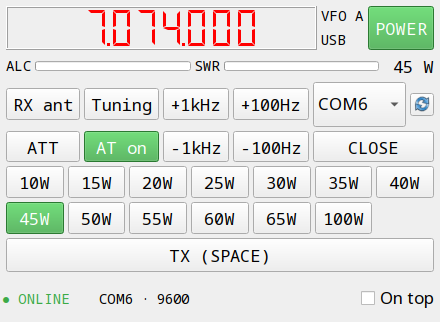
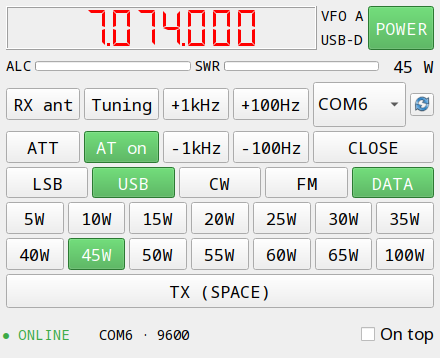
Add mode buttons, DATA toggle and 5 W power step
- LSB / USB / CW / FM buttons (MD), current mode highlighted from IF
- DATA mode on/off (DA), shown as USB-D; disabled and not polled in
  CW/FSK where the TRX answers DA with an error
- 5 W added to default power steps: two rows of 7 buttons
- GitHub Actions bumped to v7 (Node.js 20 deprecation)
- ReadMe and screenshot updated

diff --git a/src/kenwood_control.py b/src/kenwood_control.py
@@ -9,7 +9,7 @@ from PyQt5.QtCore import QIODevice, QTimer, Qt, QEvent, QSettings, QSize
 from PyQt5.QtWidgets import QMessageBox
 
 # Опрос на приёме - всё состояние, на передаче - частота/TX и измерители
-POLL_COMMANDS_RX = ["IF", "PC", "AN", "RA", "PS", "FR", "AC"]
+POLL_COMMANDS_RX = ["IF", "PC", "AN", "RA", "PS", "FR", "AC", "DA"]
 POLL_COMMANDS_TX = ["IF", "RM"]
 POLL_INTERVAL_MS = 50
 # Состояние связи: ответ старше LINK_SLOW_S - "SLOW", старше LINK_LOST_S - "NO ANSWER"
@@ -21,11 +21,14 @@ LINK_LOST_S = 1.5
 FREQ_HOLD_S = 0.3
 
 # Минимальная длина ответа (без ';') для каждой команды
-MIN_ANSWER_LEN = {"IF": 30, "PC": 5, "AN": 5, "RA": 4, "PS": 3, "FR": 3, "AC": 5, "RM": 7}
+MIN_ANSWER_LEN = {"IF": 30, "PC": 5, "AN": 5, "RA": 4, "PS": 3, "FR": 3, "AC": 5, "RM": 7, "DA": 3}
 
 MODES = {"1": "LSB", "2": "USB", "3": "CW", "4": "FM", "5": "AM",
          "6": "FSK", "7": "CW-R", "9": "FSK-R"}
 VFOS = {"0": "VFO A", "1": "VFO B", "2": "MEM"}
+# Кнопки режимов (код команды MD) и режимы, в которых доступен DATA (LSB, USB, FM, AM)
+MODE_BUTTONS = {"1": "LSB", "2": "USB", "3": "CW", "4": "FM"}
+DATA_MODES = "1245"
 
 # Файл настроек лежит рядом с программой (или с exe)
 if getattr(sys, "frozen", False):
@@ -37,7 +40,7 @@ SETTINGS_FILE = str(APP_DIR / "kenwood_control.ini")
 VERSION = "1.1.0"
 
 DEFAULT_SETTINGS = {
-    "power/steps": [str(w) for w in (10, 15, 20, 25, 30, 35, 40, 45, 50, 55, 60, 65, 100)],
+    "power/steps": [str(w) for w in (5, 10, 15, 20, 25, 30, 35, 40, 45, 50, 55, 60, 65, 100)],
     "serial/port": "",
     "serial/baud": 9600,
     "serial/flow_control": True,    # false, если используется RS232 без RTS/CTS
@@ -94,6 +97,8 @@ class KenwoodControl(QtWidgets.QMainWindow):
         self.is_active_vfob = False
         self.is_tuner_on = False
         self.is_tx_on = False
+        self.is_data_on = False
+        self.mode = ""
         self.count = 0
         self.current_freq = ""
         self.freq_hold_until = 0
@@ -250,6 +255,18 @@ class KenwoodControl(QtWidgets.QMainWindow):
         grid.addWidget(self.openB, 1, 4)
         main.addLayout(grid)
 
+        # Режимы модуляции и DATA
+        modes = QtWidgets.QHBoxLayout()
+        modes.setSpacing(4)
+        self.mode_buttons = {}
+        for code, name in MODE_BUTTONS.items():
+            self.mode_buttons[code] = button(name)
+            modes.addWidget(self.mode_buttons[code])
+        self.dataB = button("DATA")
+        self.dataB.setToolTip("DATA mode (LSB, USB, FM, AM)")
+        modes.addWidget(self.dataB)
+        main.addLayout(modes)
+
         # Кнопки мощности (ступени задаются в kenwood_control.ini)
         power_grid = QtWidgets.QGridLayout()
         power_grid.setSpacing(4)
@@ -290,6 +307,9 @@ class KenwoodControl(QtWidgets.QMainWindow):
         self.tuner_onB.clicked.connect(self.tuner_on)
         self.tx_onB.clicked.connect(self.on_tx_button)
         self.on_topC.toggled.connect(self.on_top)
+        self.dataB.clicked.connect(self.on_data)
+        for code, btn in self.mode_buttons.items():
+            btn.clicked.connect(lambda _, c=code: self.set_mode(c))
 
         # Кнопки управления мощностью
         for power, btn in self.power_buttons.items():
@@ -412,8 +432,12 @@ class KenwoodControl(QtWidgets.QMainWindow):
             return
 
         commands = POLL_COMMANDS_TX if self.is_tx_on else POLL_COMMANDS_RX
-        self.send_command(commands[self.count % len(commands)])
+        command = commands[self.count % len(commands)]
         self.count += 1
+        # В CW и FSK команда DA возвращает ошибку
+        if command == "DA" and self.mode not in DATA_MODES:
+            return
+        self.send_command(command)
 
     def parse_trx_data(self, data):
         """Анализ одного ответа трансивера (без ';')"""
@@ -431,7 +455,8 @@ class KenwoodControl(QtWidgets.QMainWindow):
             if freq.isdigit() and time.monotonic() > self.freq_hold_until:
                 self.current_freq = freq
                 self.lcdNumber.display(format_freq(freq))
-            self.modeL.setText(MODES.get(data[29], ""))
+            self.mode = data[29]
+            self.update_mode_ui()
             was_tx = self.is_tx_on
             self.is_tx_on = data[28] == "1"
             self.tx_onB.setStyleSheet(TX_STYLE if self.is_tx_on else OFF_STYLE)
@@ -471,6 +496,10 @@ class KenwoodControl(QtWidgets.QMainWindow):
             self.is_active_vfoa = data[2] == "0"
             self.is_active_vfob = data[2] == "1"
             self.vfoL.setText(VFOS.get(data[2], ""))
+
+        elif cmd == "DA":
+            self.is_data_on = data[2] == "1"
+            self.update_mode_ui()
 
         elif cmd == "AC":
             self.is_tuner_on = data[3] == "1"
@@ -537,7 +566,9 @@ class KenwoodControl(QtWidgets.QMainWindow):
         self.labelCOM.setText("Port closed")
         self.driveL.setText("  - W")
         self.vfoL.setText("")
-        self.modeL.setText("")
+        self.mode = ""
+        self.is_data_on = False
+        self.update_mode_ui()
         self.grey_all_power_buttons()
         for btn in [self.powerB, self.rxantB, self.attB, self.tuner_onB, self.tx_onB]:
             btn.setStyleSheet(OFF_STYLE)
@@ -580,6 +611,29 @@ class KenwoodControl(QtWidgets.QMainWindow):
             self.freq_hold_until = time.monotonic() + FREQ_HOLD_S
             self.lcdNumber.display(format_freq(new_freq))
             print(f"{prefix}{new_freq}")
+
+    def update_mode_ui(self):
+        """Подсветка режима и DATA, надпись режима рядом с частотой"""
+        data_available = self.mode in DATA_MODES
+        if not data_available:
+            self.is_data_on = False
+        for code, btn in self.mode_buttons.items():
+            self.set_state(btn, code == self.mode)
+        self.dataB.setEnabled(data_available or not self.mode)
+        self.set_state(self.dataB, self.is_data_on)
+        self.modeL.setText(MODES.get(self.mode, "") + ("-D" if self.is_data_on else ""))
+
+    def set_mode(self, code):
+        """Выбор режима модуляции"""
+        if self.send_command(f"MD{code}"):
+            self.mode = code
+            self.update_mode_ui()
+
+    def on_data(self):
+        """Включение/выключение режима DATA"""
+        if self.send_command("DA" + ("1" if not self.is_data_on else "0")):
+            self.is_data_on = not self.is_data_on
+            self.update_mode_ui()
 
     def tuning(self):
         """Запуск настройки антенны"""

diff --git a/ReadMe.md b/ReadMe.md
@@ -14,6 +14,7 @@ Based on Python 3 and PyQt5. If you want, you can change the source code for you
   (100 Hz step, Ctrl + wheel - 1 kHz)
 - Drive power buttons (steps are configurable) and actual TX power display
 - ALC and SWR meters during transmit
+- Mode buttons LSB / USB / CW / FM and DATA mode on/off (DATA works in LSB, USB, FM, AM)
 - RX antenna, attenuator, antenna tuner, power on/off
 - PTT: the TX button or hold SPACE. TX is released when the window loses focus,
   the port is closed or the program exits
@@ -34,7 +35,7 @@ On the first start the program creates `kenwood_control.ini` next to the exe:
 
 ```ini
 [power]
-steps=10, 15, 20, 25, 30, 35, 40, 45, 50, 55, 60, 65, 100
+steps=5, 10, 15, 20, 25, 30, 35, 40, 45, 50, 55, 60, 65, 100
 
 [serial]
 port=COM6
